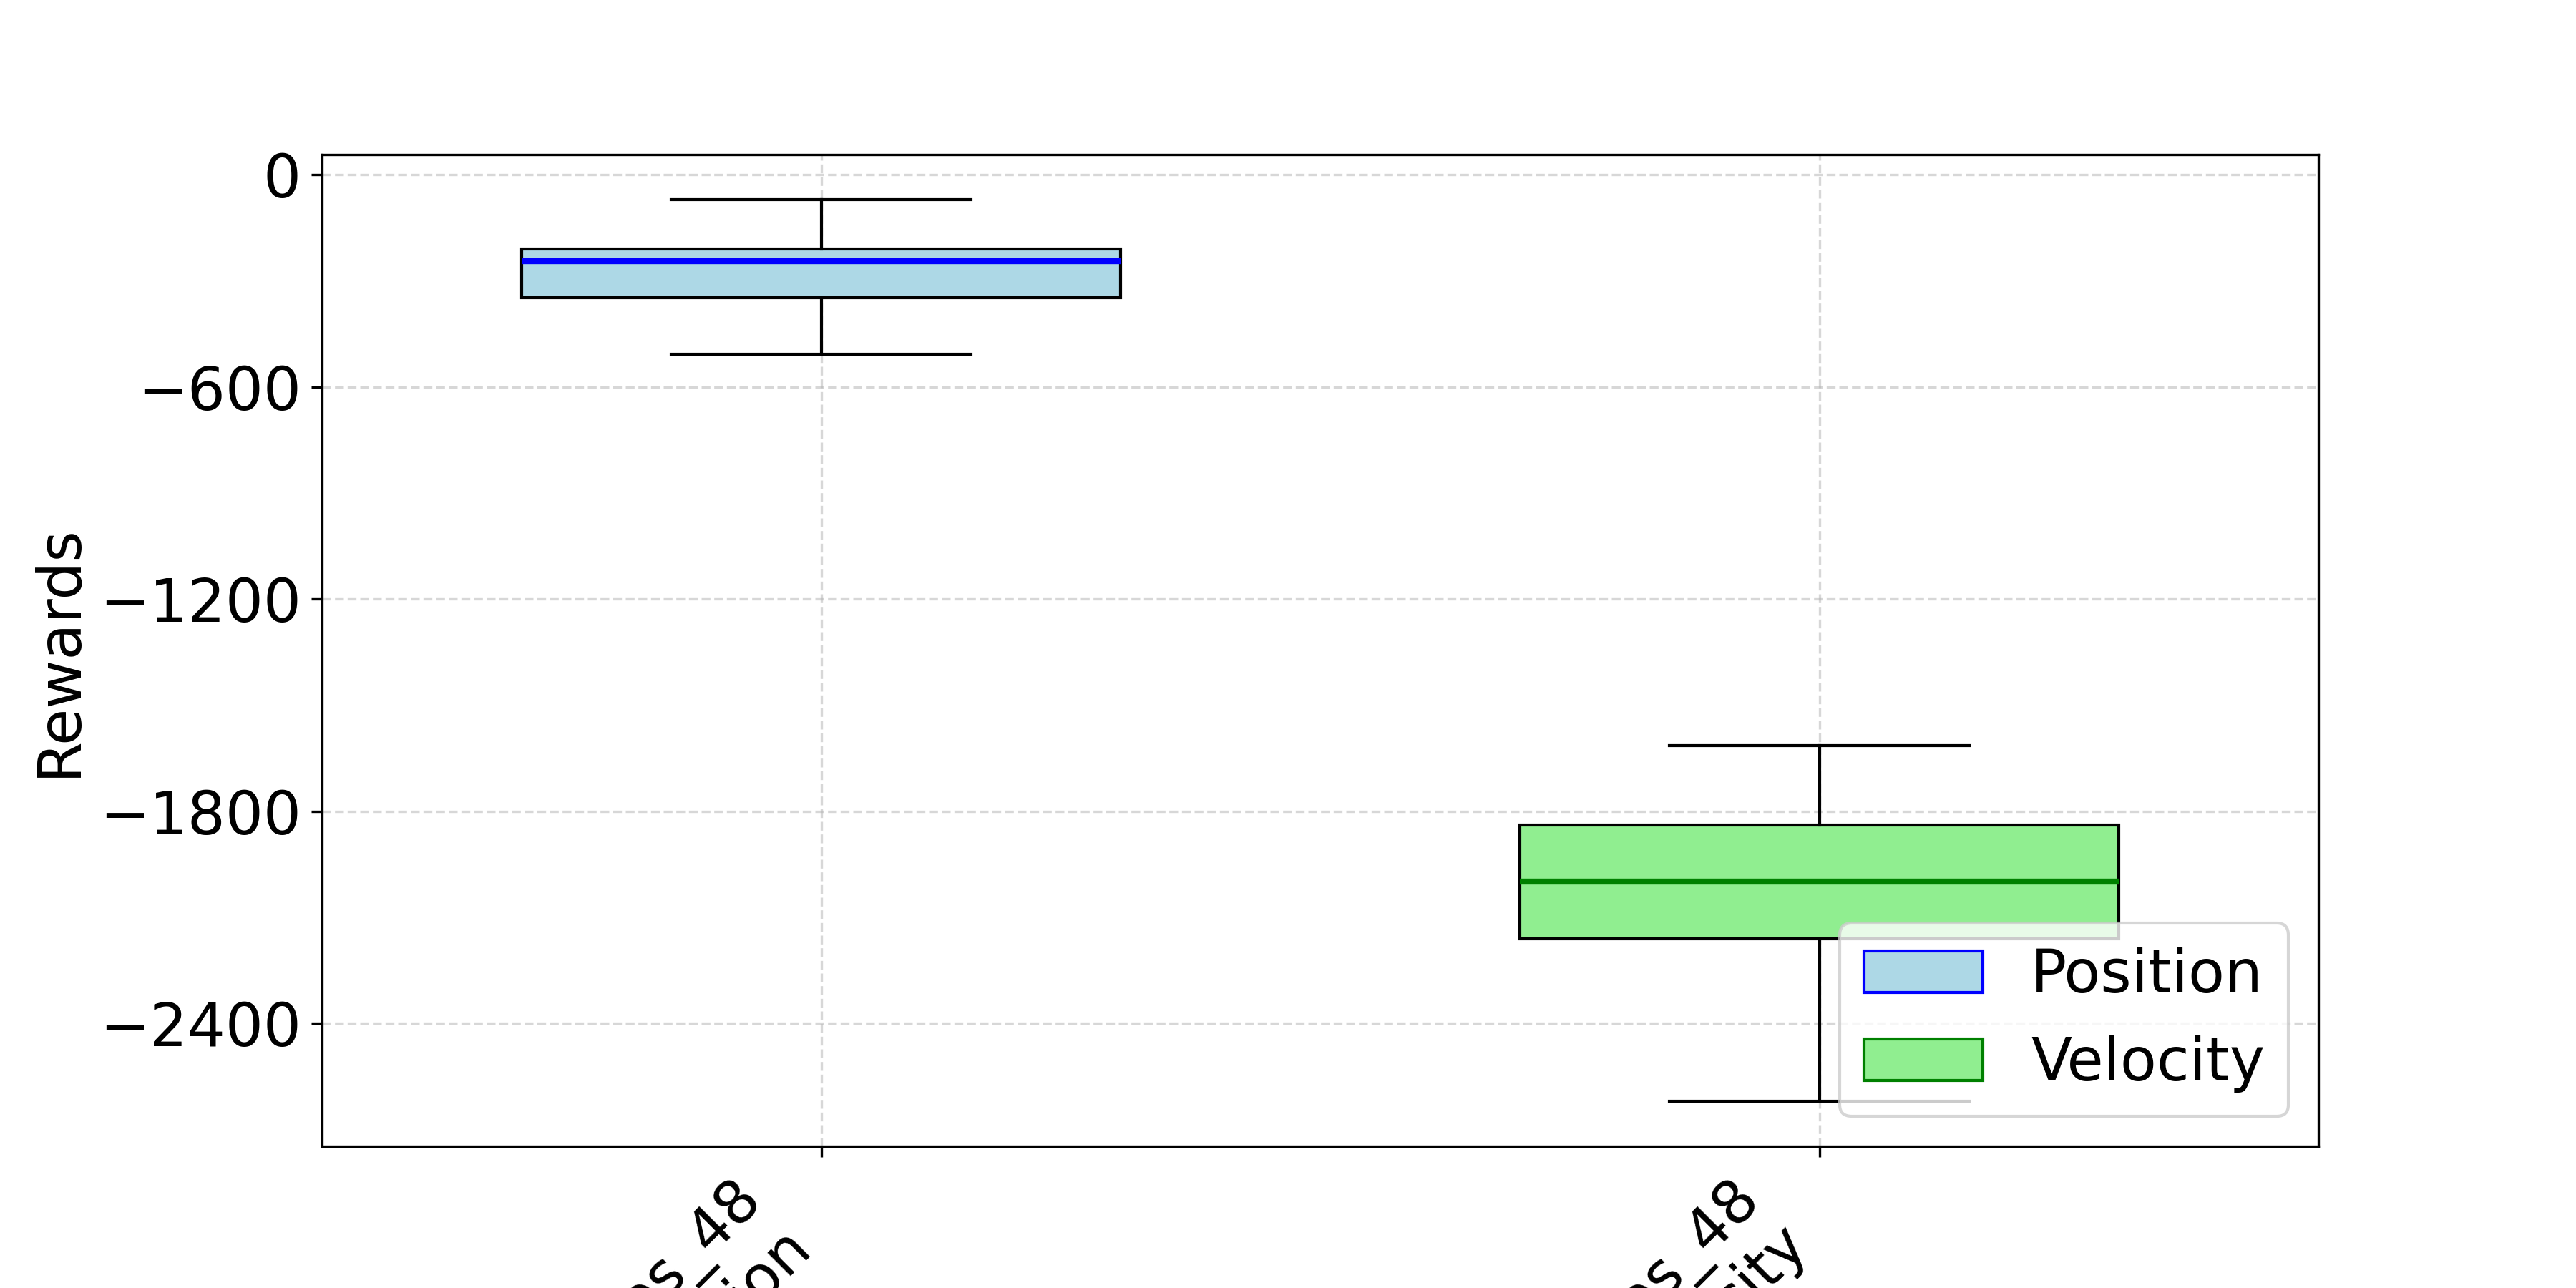
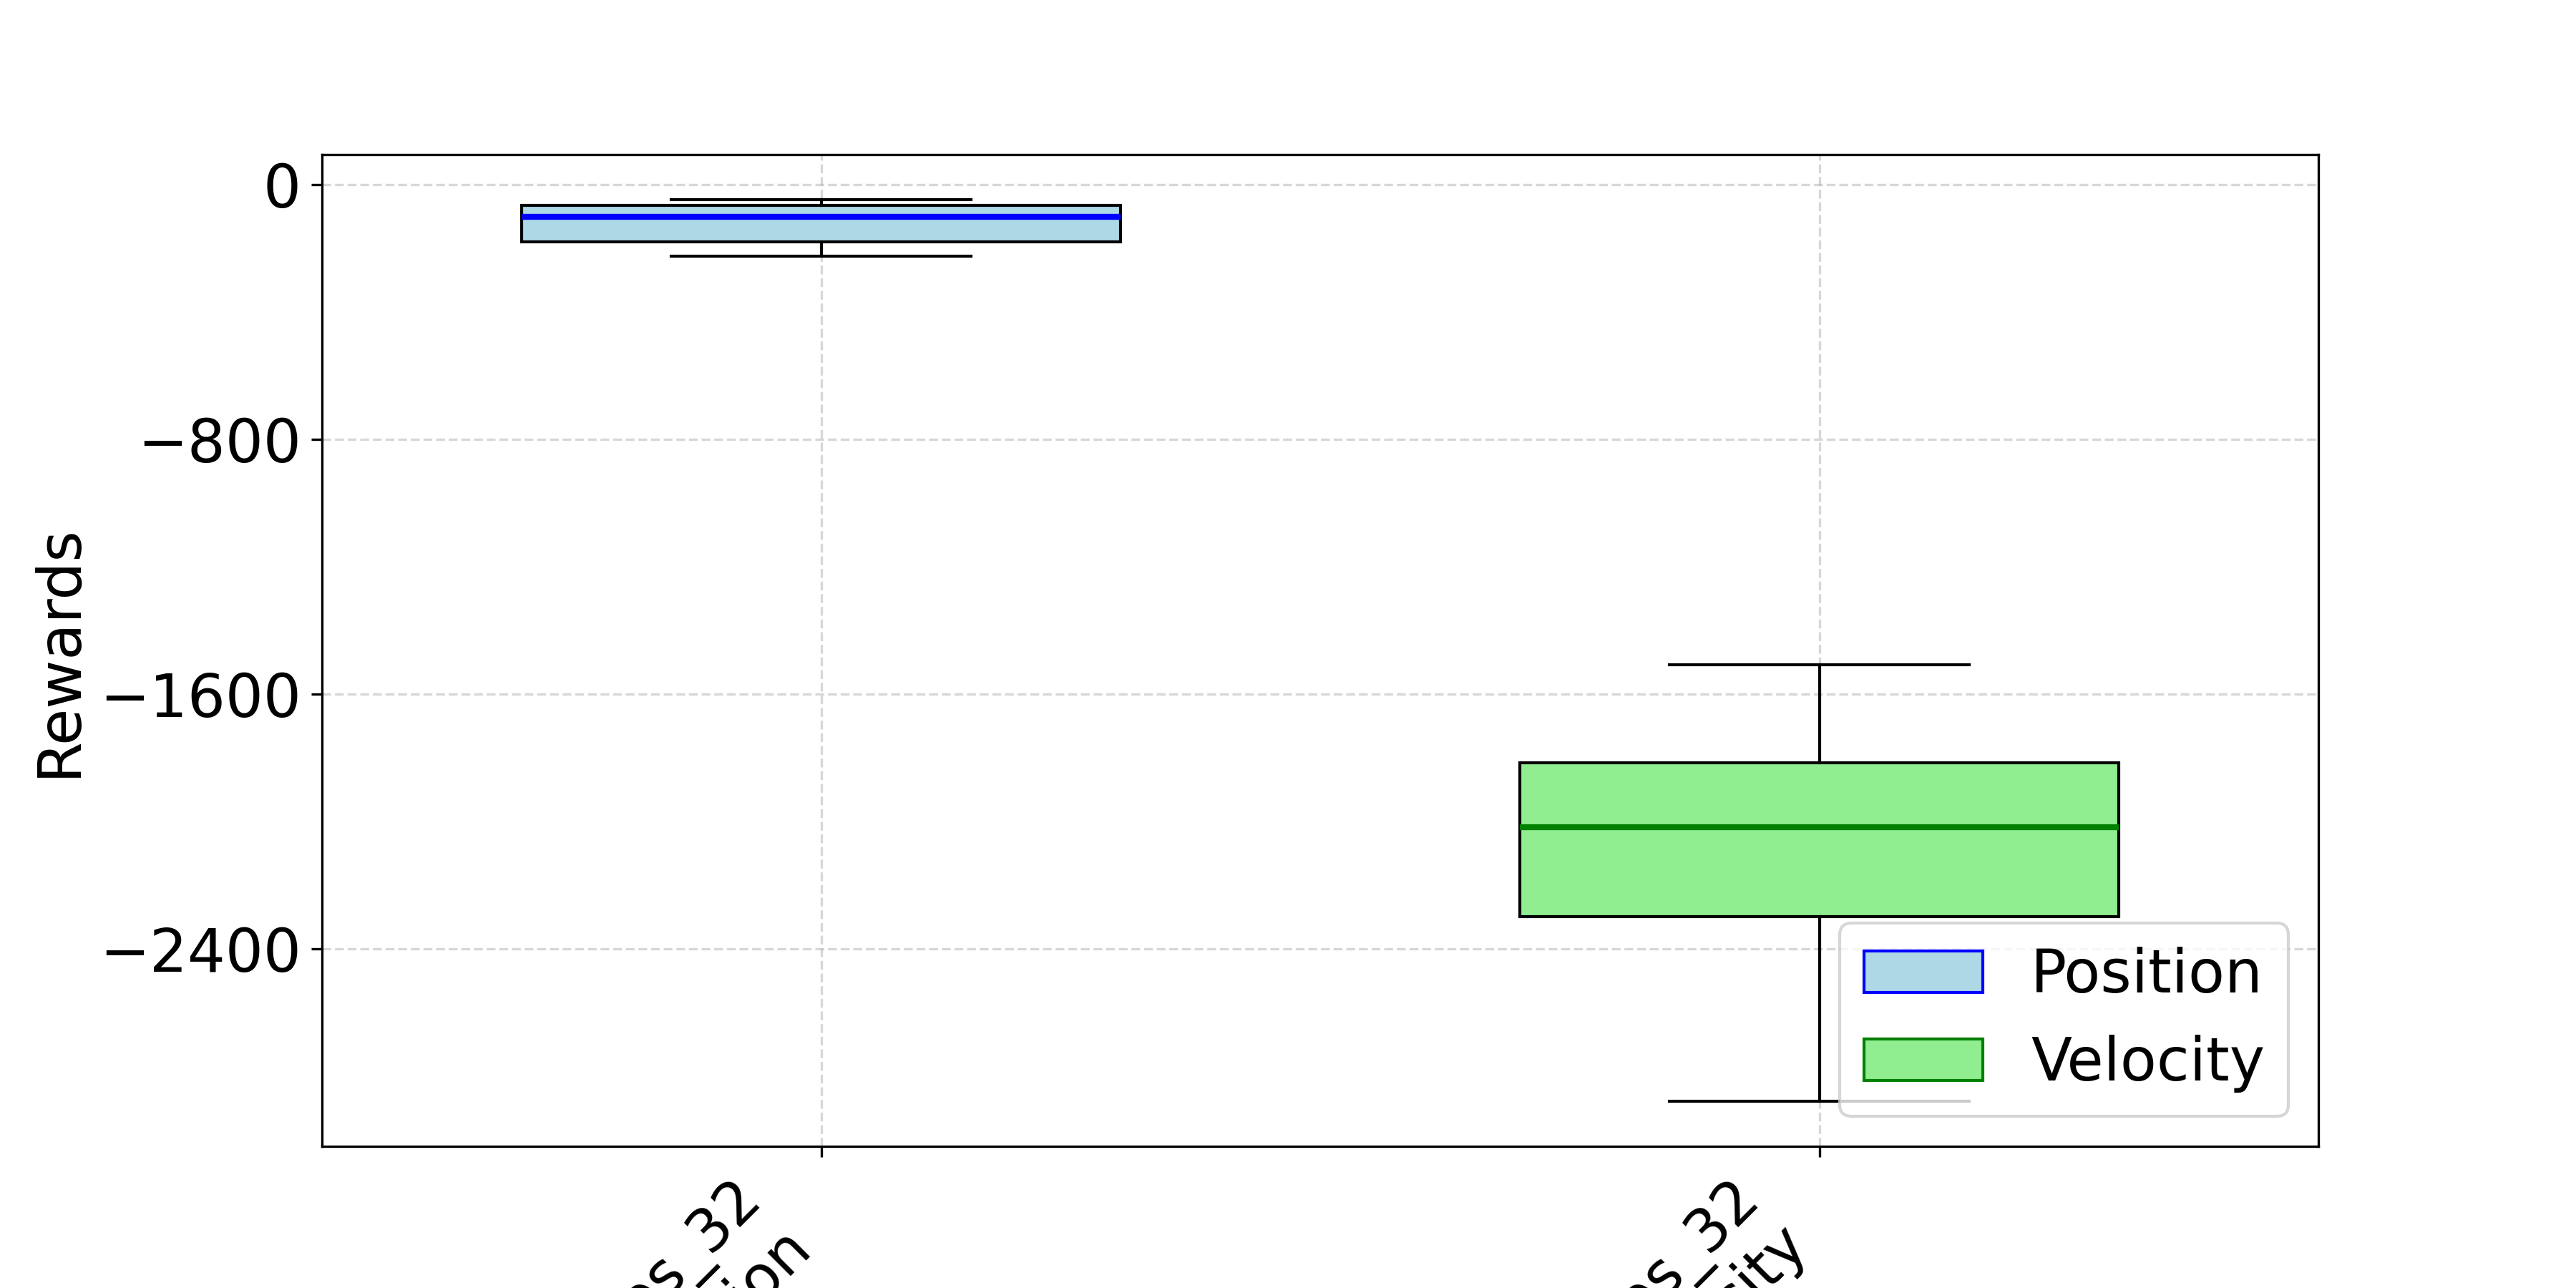
reconstruct the subgoal generation method

diff --git a/train_striding_predictor_decoder_fine_tune.py b/train_striding_predictor_decoder_fine_tune.py
@@ -217,8 +217,8 @@ def get_decoder(path, action_dim, obs_dim, reward_dim, latent_dim, output_action
         param.requires_grad = True
 
     # ===== 3. 解冻倒数第二层 fc2 =====
-    for p in decoder.task_decoder.fc2.parameters():
-        p.requires_grad = True
+    # for p in decoder.task_decoder.fc2.parameters():
+    #     p.requires_grad = True
 
     decoder.to(DEVICE)
     return decoder
@@ -433,7 +433,6 @@ def rollout(env, encoder, decoder, optimizer, simple_agent, step_predictor, tran
         #         count+=1
         #         if count>150:
         #             return 'Failed to sample task. Attempted 150 times.'
-
         #new balanced sampling method
         if tasks:
             # 你自己传了 tasks 列表就按它来（每个元素类似 {'base_task':..., 'specification':...}）
@@ -503,6 +502,7 @@ def rollout(env, encoder, decoder, optimizer, simple_agent, step_predictor, tran
             # map the complex observation to simple observation, not in toy env
             #simple_obs_before: as input to the simple agent to get the simple action
             #simple_obs_before: as input to the decoder to get the task prediction
+            #simple_obs_before: [pos_x, vel_x]
             simple_obs_before = general_obs_map(env)
 
             # Save latent vars
@@ -553,7 +553,13 @@ def rollout(env, encoder, decoder, optimizer, simple_agent, step_predictor, tran
             #use the simple_env to step with the simple action to get the simple observation after the simple step
             #_simple_obs: the next simple observation after stepping with simple action
             #_simple_obs: [pos_x, vel_x]  simple_obs after stepping the high level simple action in the toy env
-            _simple_obs,_,_,_ = simple_env.step(simple_action.detach().cpu().numpy())
+            
+            
+            # comment out for changing the subgoal generation method
+            #_simple_obs,_,_,_ = simple_env.step(simple_action.detach().cpu().numpy())
+            
+            
+            
             #construct the simple_obs multi-task one-hot vector
             #simple_obs: [goal_front, goal_back, forward_vel, backward_vel]
             # EXAMPLE: simple_obs: tensor([0, 0, 2.5, 0]) means the subgoal is to run forward with velocity 2.5
@@ -605,16 +611,20 @@ def rollout(env, encoder, decoder, optimizer, simple_agent, step_predictor, tran
 
                 # Analysis the perfect subgoal(real state) for the coming low level policy execution
                 #real current state---use real state
-                cur_x = float(env.sim.data.qpos[0])
-                cur_v = float(env.sim.data.qvel[0])
-                step_frac = float(torch.clamp(simple_action.squeeze(), 0.0, 1.0))
+                base_task_pred = int(true_task_idx)
+                cur_x = float(simple_obs_before[0])
+                cur_v = float(simple_obs_before[1])
+                goal_val = true_goal_value
+                raw = float(simple_action.squeeze())      # [-1, 1]
+                alpha = 0.5 * (raw + 1.0)                 # [0, 1]
+
+                #TODO: test for the new subgoal generation method discarding the _simple_obs
 
                 if true_task_idx in [idx_GF, idx_GB]:
                     # 位置任务-- use mu to generate the simple_action
-                    if true_task_idx == idx_GF:
-                        simple_obs[idx_GF] = _simple_obs[0].item()
-                    else:
-                        simple_obs[idx_GB] = _simple_obs[0].item()
+                    # position task: contractive subgoal
+                    x_subgoal = cur_x + alpha * (goal_val - cur_x)
+                    simple_obs[true_task_idx] = x_subgoal
 
                     # use real state
                     # x_goal = true_goal_value           # env.task[true_task_idx]，上一节已经算过
@@ -625,12 +635,10 @@ def rollout(env, encoder, decoder, optimizer, simple_agent, step_predictor, tran
                     # action_normalize = max(abs(x_goal - cur_x), 1e-3)     
 
                 elif true_task_idx in [idx_FV, idx_BV]:
-                    # 速度任务--use mu to generate the simple_action
-                    v_next = float(np.clip(_simple_obs[1].item(), -3, 3))
-                    if true_task_idx == idx_FV:
-                        simple_obs[idx_FV] = v_next
-                    else:
-                        simple_obs[idx_BV] = v_next
+                    # velocity task: contractive subgoal
+                    v_subgoal = cur_v + alpha * (goal_val - cur_v)
+                    v_subgoal = float(np.clip(v_subgoal, -3.0, 3.0))
+                    simple_obs[true_task_idx] = v_subgoal
                     
                     #use self defined simple action
                     # v_goal = true_goal_value
@@ -638,22 +646,27 @@ def rollout(env, encoder, decoder, optimizer, simple_agent, step_predictor, tran
                     # v_subgoal = float(np.clip(v_subgoal, -3, 3))
                     # simple_obs[true_task_idx] = v_subgoal
 
-                # 执行任务 = 真值任务
-                base_task_pred = int(true_task_idx)
+
 
             # ===== Decoder 模式（train_stride & decoder_eval）=====
             else:
-                # decoder 决定任务类型  simple_action not decide the task type
+                # decoder decides the task,  simple_action not decide the task type
                 base_task_pred = int(task_prediction.item())
-                # simple_action 只用于生成该任务下的 subgoal 数值
+                cur_x = float(simple_obs_before[0])
+                cur_v = float(simple_obs_before[1])
+                goal_val = true_goal_value
+                raw = float(simple_action.squeeze())      # [-1, 1]
+                alpha = 0.5 * (raw + 1.0)                 # [0, 1]
                 if base_task_pred in [idx_GF, idx_GB]:
-                    # 位置任务
-                    simple_obs[base_task_pred] = _simple_obs[0].item()
+                    # position task: contractive subgoal
+                    x_subgoal = cur_x + alpha * (goal_val - cur_x)
+                    simple_obs[base_task_pred] = x_subgoal
 
                 elif base_task_pred in [idx_FV, idx_BV]:
-                    # 速度任务
-                    v_next = float(np.clip(_simple_obs[1].item(), -3, 3))
-                    simple_obs[base_task_pred] = v_next
+                    # velocity task: contractive subgoal
+                    v_subgoal = cur_v + alpha * (goal_val - cur_v)
+                    v_subgoal = float(np.clip(v_subgoal, -3.0, 3.0))
+                    simple_obs[base_task_pred] = v_subgoal
 
             #get the the base task prediction from the simple_obs one-hot vector
             #DEBUG: why not use task_prediction directly?
@@ -667,8 +680,14 @@ def rollout(env, encoder, decoder, optimizer, simple_agent, step_predictor, tran
             #????? NOrmailize here only for position task?  DEBUG!!!!
             #for mu this action_normalize uncomment, for real state test comment out
             #if USE_DECODER:
-            if simple_obs_before[0] != 0:
-                action_normalize = simple_obs_before[0].item() - simple_obs[0].item()
+            # if simple_obs_before[0] != 0:
+            #     action_normalize = simple_obs_before[0].item() - simple_obs[0].item()
+            
+            if base_task_pred in [idx_GF, idx_GB]:
+                action_normalize = abs(goal_val - cur_x) + 1e-3
+            elif base_task_pred in [idx_FV, idx_BV]:
+                action_normalize = abs(goal_val - cur_v) + 1e-3
+
             #set the maximal steps for the step predictor
             max_steps = 20
             #calculate sim steps from step predictor, decide how many low level steps to simulate to reach the desired subgoal
@@ -1240,13 +1259,13 @@ if __name__ == "__main__":
 
 
     # optimizer for decoder finetune for last layer
-    # optimizer = optim.Adam(decoder.parameters(), lr=3e-4)
+    optimizer = optim.Adam(decoder.parameters(), lr=3e-4)
     # the below optimizer finetune the last 2 layers of the decoder
-    optimizer = optim.Adam(
-        filter(lambda p: p.requires_grad, decoder.parameters()),
-        lr=1e-4,
-        weight_decay=1e-5
-    )
+    # optimizer = optim.Adam(
+    #     filter(lambda p: p.requires_grad, decoder.parameters()),
+    #     lr=1e-4,
+    #     weight_decay=1e-5
+    # )
 
 
     ## ROLLOUT ###
@@ -1268,10 +1287,10 @@ if __name__ == "__main__":
         {'base_task':'goal_front', 'specification':0.9},
         {'base_task':'backward_vel', 'specification':0.9},#3
         {'base_task':'backward_vel', 'specification':0.5},
-        {'base_task':'backward_vel', 'specification':0.1},
+        {'base_task':'backward_vel', 'specification':0.3},
         # {'base_task':'backward_vel', 'specification':1.0},
         # {'base_task':'forward_vel', 'specification':1.0},
-        {'base_task':'forward_vel', 'specification':0.1},#2
+        {'base_task':'forward_vel', 'specification':0.3},#2
         {'base_task':'forward_vel', 'specification':0.5},
         {'base_task':'forward_vel', 'specification':0.9},
                 ]

diff --git a/configs/transfer_config.py b/configs/transfer_config.py
@@ -18,8 +18,8 @@ transfer_config = dict(
 
 
     inference_path = dict(
-        name = '2025_12_07_15_01_42_default_true_gmm_timesteps_48',
-        path = '/home/ubuntu/yuanmeng/bo/MRL-Inference-Reutilization/output/toy1d-multi-task/2025_12_07_15_01_42_default_true_gmm_timesteps_48'
+        name = '2025_12_07_14_51_31_default_true_gmm_timesteps_32',
+        path = '/home/ubuntu/yuanmeng/bo/MRL-Inference-Reutilization/output/toy1d-multi-task/2025_12_07_14_51_31_default_true_gmm_timesteps_32'
     ),
 
     

diff --git a/diagnostic_decoder_prediction_confusion_matrix.py b/diagnostic_decoder_prediction_confusion_matrix.py
@@ -65,7 +65,7 @@ def plot_confusion_matrix(true, pred, save_path=None, task_names=None):
 
 if __name__ == "__main__":
     # ===== 修改这个路径 =====
-    LOG_DIR = "/home/ubuntu/yuanmeng/bo/MRL-Inference-Reutilization/output/toy1d-multi-task/2025_12_07_15_01_42_default_true_gmm_timesteps_48/DECODER_EVAL/logs"   # 例如 /home/.../EVAL/logs
+    LOG_DIR = "/home/ubuntu/yuanmeng/bo/MRL-Inference-Reutilization/output/toy1d-multi-task/2025_12_07_14_51_31_default_true_gmm_timesteps_32/DECODER_EVAL/logs"   # 例如 /home/.../EVAL/logs
 
     # 你的 cheetah 任务顺序（你在代码里写过）
     task_names = ["goal_front", "goal_back", "forward_vel", "backward_vel"]